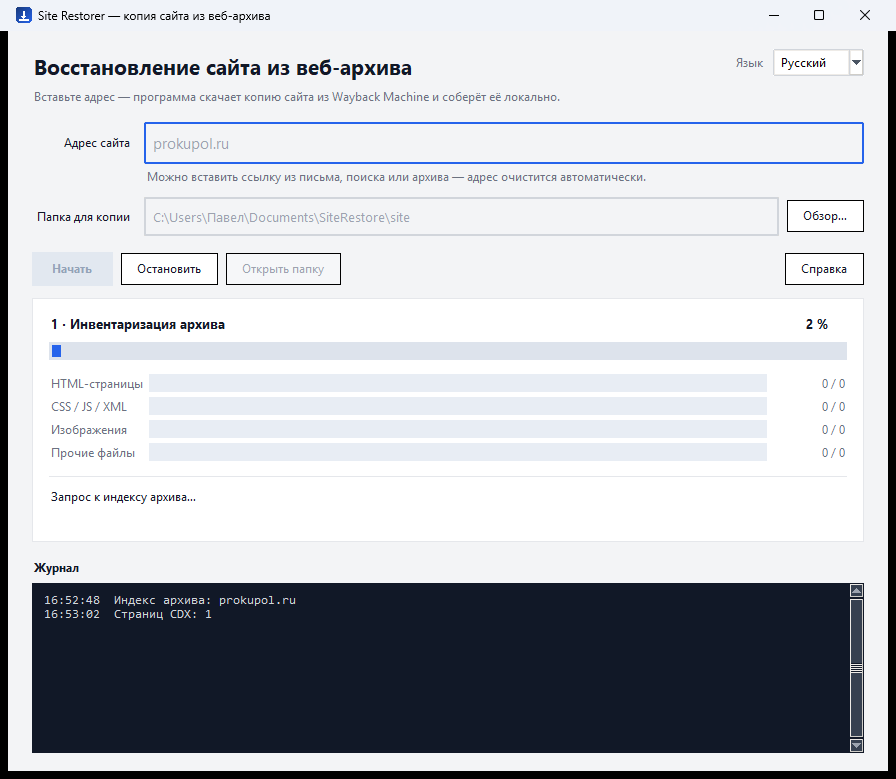
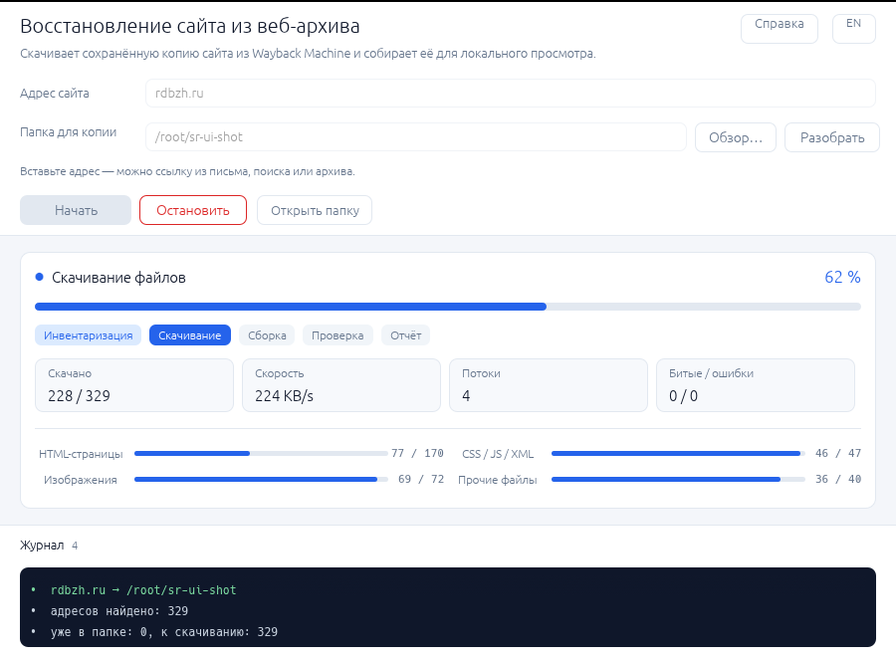
docs(landing): new interface screenshot for 3.1.0

diff --git a/landing/index.html b/landing/index.html
@@ -187,7 +187,7 @@
 
       <figure class="hero-media">
         <div class="shot">
-          <img src="assets/img/screenshot-running.png" width="896" height="779" alt="Окно Site Restorer: инвентаризация архива, прогресс по типам файлов и журнал запросов" fetchpriority="high">
+          <img src="assets/img/screenshot-running.png" width="896" height="659" alt="Окно Site Restorer: скачивание архива, плитки прогресса, полосы по типам файлов и журнал запросов" fetchpriority="high">
         </div>
         <figcaption class="shot-caption">Программа в работе: инвентаризация архива и журнал каждого запроса.</figcaption>
       </figure>

diff --git a/landing/en/index.html b/landing/en/index.html
@@ -187,7 +187,7 @@
 
       <figure class="hero-media">
         <div class="shot">
-          <img src="../assets/img/screenshot-running.png" width="896" height="779" alt="Site Restorer window: archive inventory, progress by file type and the request log" fetchpriority="high">
+          <img src="../assets/img/screenshot-running.png" width="896" height="659" alt="Site Restorer window: archive download, progress tiles, per-type bars and the request log" fetchpriority="high">
         </div>
         <figcaption class="shot-caption">Restoring a site: archive inventory and a log entry for every request.</figcaption>
       </figure>
